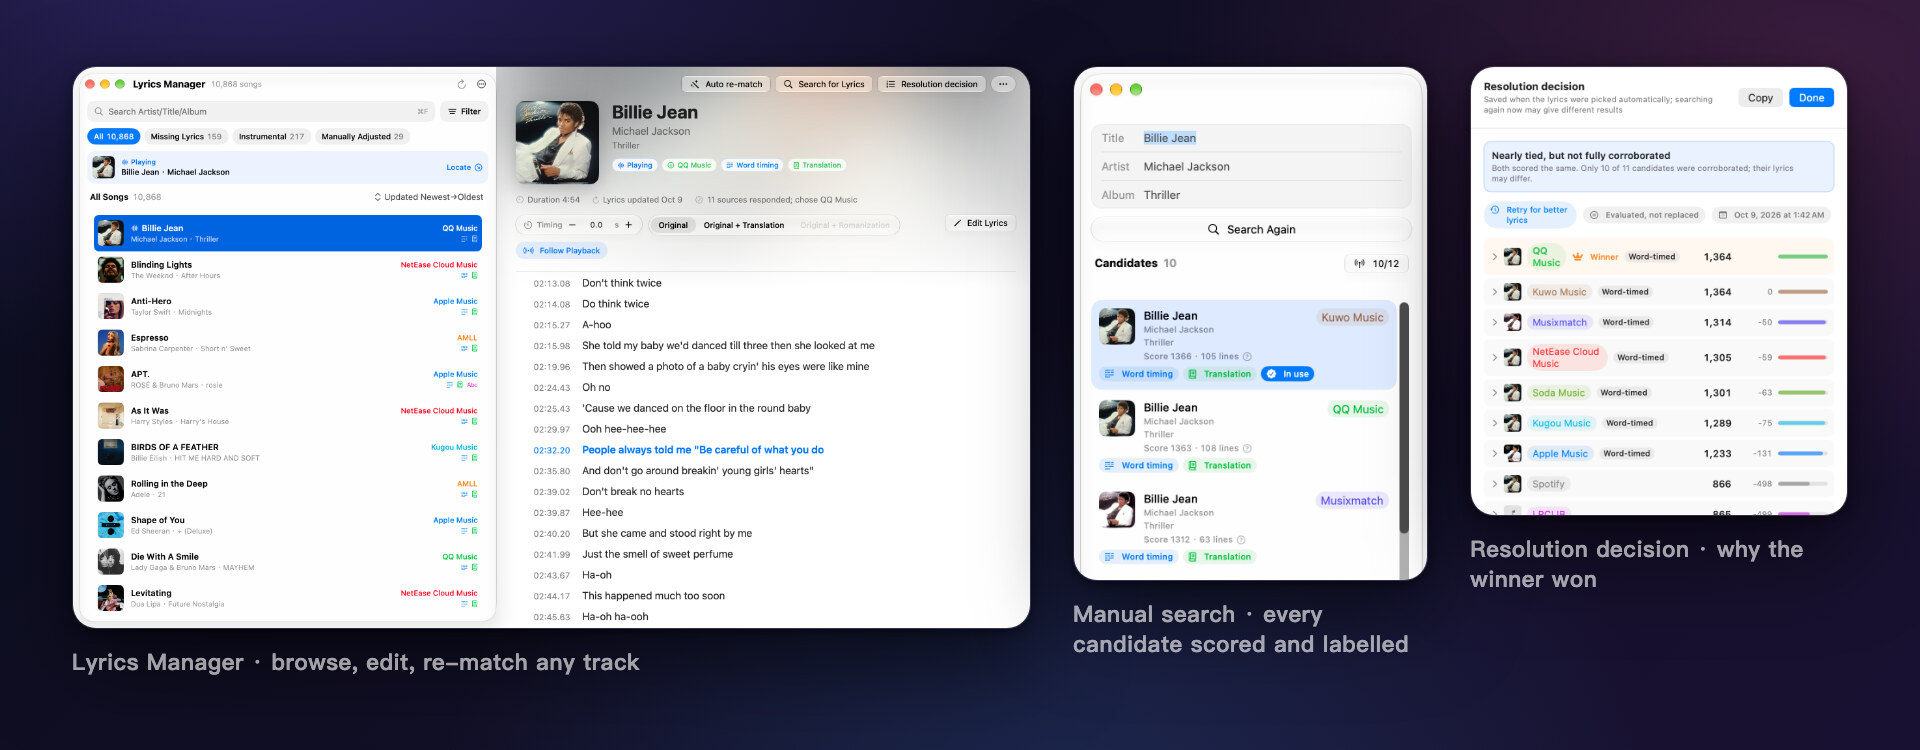
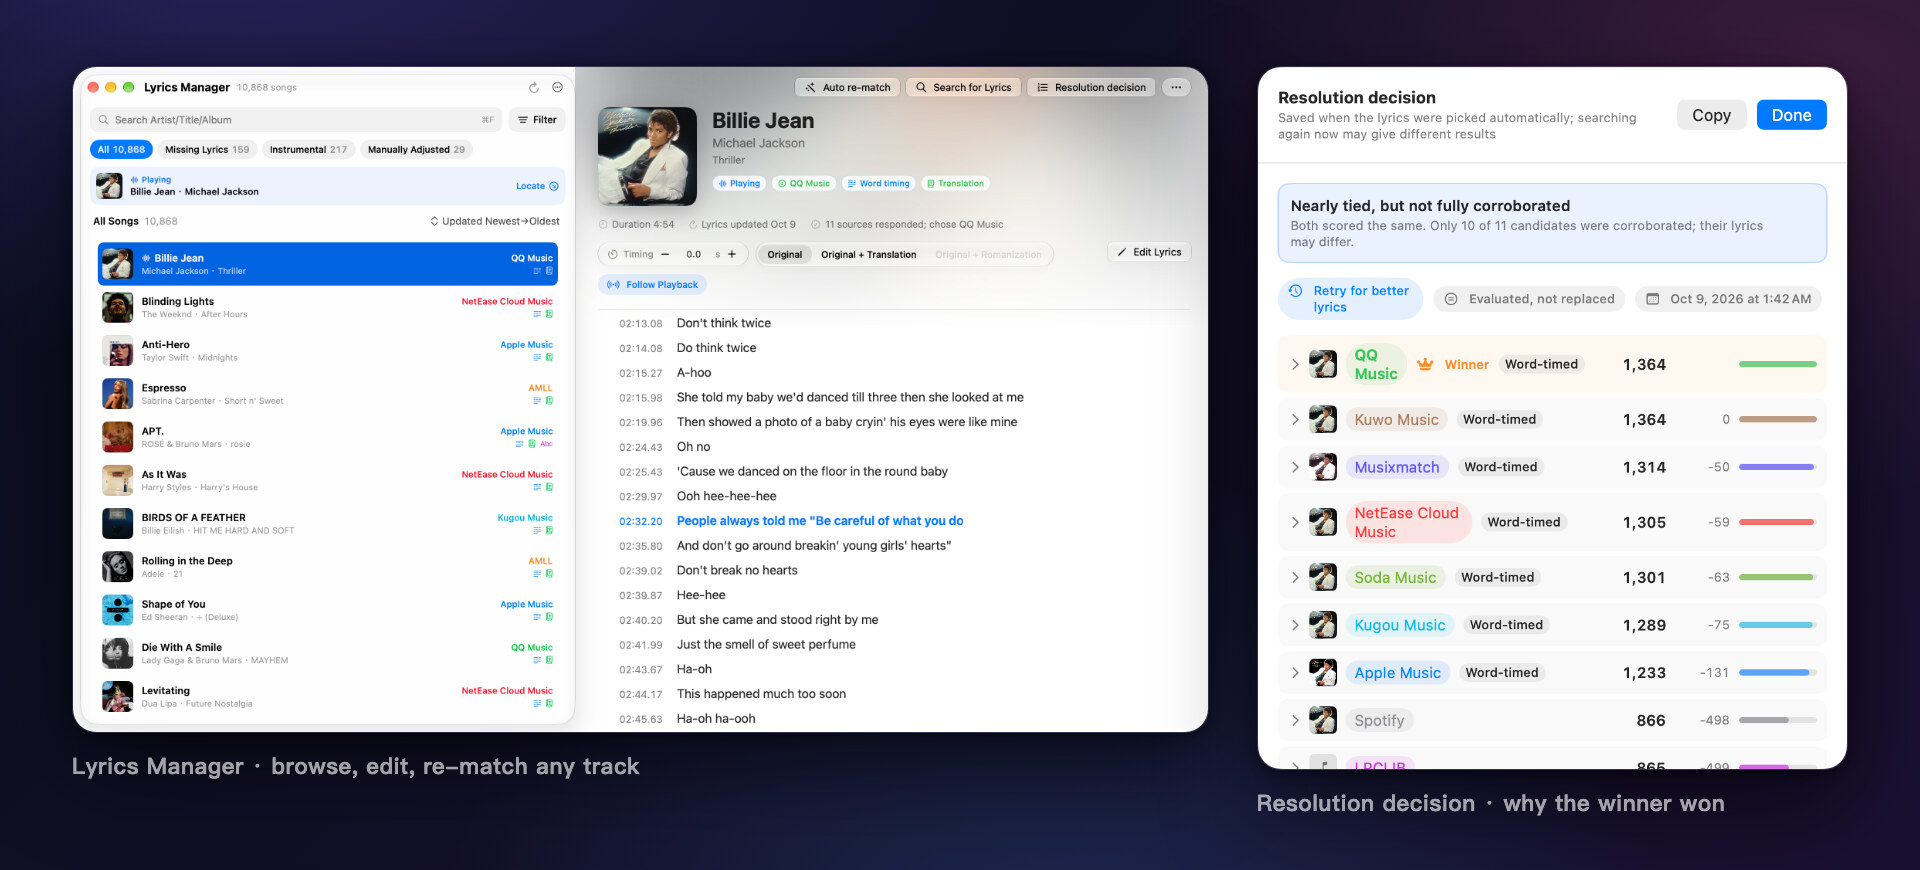
docs(readme): keep the lyrics engine image to one moment
The manual search card was captured hours after the other two, after a
background retry had moved the song from QQ Music to Kuwo, so the image
showed two different sources in use. The lyrics engine image now shows
the Lyrics Manager and the resolution decision from the same moment,
and the alt text drops the manual search.

Changed region(s): [[0.0312, 0.0613, 0.9688, 0.9507], [0.2188, 0.3987, 0.25, 0.4293]]

diff --git a/README.md b/README.md
@@ -34,7 +34,7 @@ brew install --cask lyrimuse
 <img src="docs/images/hero-surfaces.jpg" alt="Lyrimuse lyrics surfaces — Apple-Music-style lyrics window, Dynamic-Island-style capsule, floating overlay with word-by-word highlight, menu-bar lyrics">
 <p align="center"><sub>Four ways to show lyrics: the Lyrics Window, the Dynamic-Island-style capsule, the floating overlay with word-by-word highlight, and the menu bar</sub></p>
 
-<img src="docs/images/hero-engine.jpg" alt="Lyrimuse lyrics engine — Lyrics Manager, scored manual search, per-track resolution decision panel">
+<img src="docs/images/hero-engine.jpg" alt="Lyrimuse lyrics engine — Lyrics Manager, per-track resolution decision panel with every candidate scored">
 <p align="center"><sub>Lyrics Manager, manual search with a score on every result, and the panel that shows why a song got the lyrics it got</sub></p>
 
 <img src="docs/images/hero-profile.jpg" alt="Lyrimuse listening profile — Last.fm stats, top charts, idle listening overview, yearly listening heatmap">

diff --git a/README.zh-Hant.md b/README.zh-Hant.md
@@ -34,7 +34,7 @@ brew install --cask lyrimuse
 <img src="docs/images/hero-surfaces.zh-Hant.jpg" alt="Lyrimuse 歌詞顯示形態——歌詞視窗、動態島膠囊、桌面浮動歌詞（逐字填色）、選單列歌詞">
 <p align="center"><sub>四種顯示方式：歌詞視窗、動態島膠囊、逐字填色的桌面浮動歌詞、選單列歌詞</sub></p>
 
-<img src="docs/images/hero-engine.jpg" alt="Lyrimuse 歌詞引擎——歌詞管理、帶評分的手動搜尋、逐首歌的解析決策面板">
+<img src="docs/images/hero-engine.jpg" alt="Lyrimuse 歌詞引擎——歌詞管理、逐首歌的解析決策面板（每個候選都有評分）">
 <p align="center"><sub>歌詞管理、每個結果都有評分的手動搜尋，還有一個面板告訴你這首歌為什麼用了這份歌詞</sub></p>
 
 <img src="docs/images/hero-profile.jpg" alt="Lyrimuse 聆聽檔案——Last.fm 統計、排行榜、閒置聆聽總覽、全年熱力圖">

diff --git a/README.zh-CN.md b/README.zh-CN.md
@@ -34,7 +34,7 @@ brew install --cask lyrimuse
 <img src="docs/images/hero-surfaces.zh-CN.jpg" alt="Lyrimuse 歌词展示形态——歌词窗口、灵动岛胶囊、桌面悬浮歌词（逐字染色）、菜单栏歌词">
 <p align="center"><sub>四种显示方式：歌词窗口、灵动岛胶囊、逐字染色的桌面悬浮歌词、菜单栏歌词</sub></p>
 
-<img src="docs/images/hero-engine.jpg" alt="Lyrimuse 歌词引擎——歌词管理、带打分的手动搜索、逐首歌的解析决策面板">
+<img src="docs/images/hero-engine.jpg" alt="Lyrimuse 歌词引擎——歌词管理、逐首歌的解析决策面板（每个候选都有打分）">
 <p align="center"><sub>歌词管理、给每个结果都打了分的手动搜索，还有一个面板告诉你这首歌为什么用了这份歌词</sub></p>
 
 <img src="docs/images/hero-profile.jpg" alt="Lyrimuse 听歌档案——Last.fm 统计、榜单、空闲听歌总览、全年热力图">
